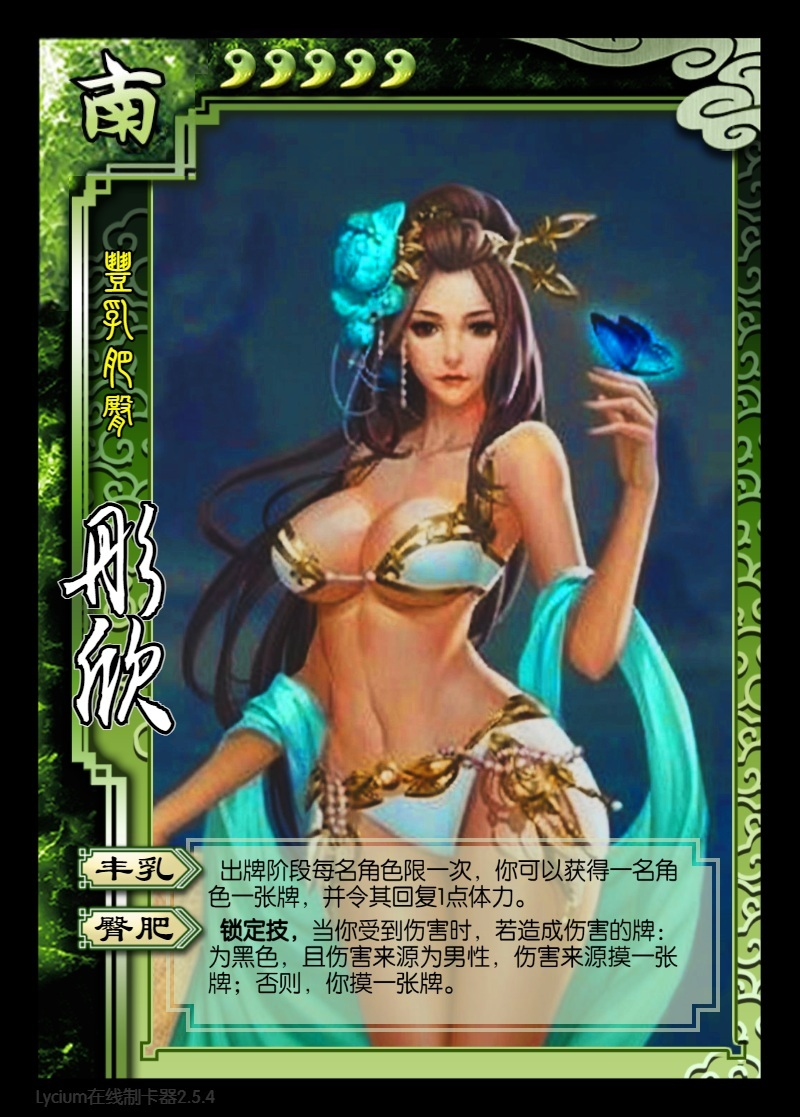
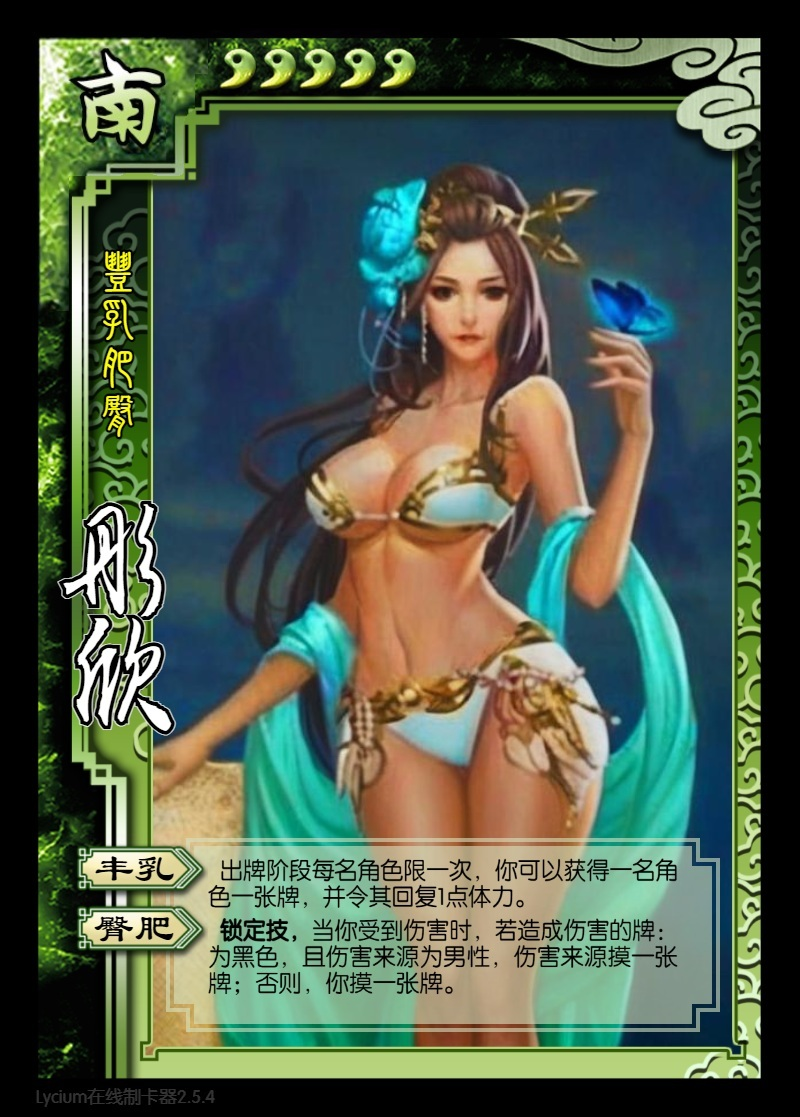
update tongxin beautiful image

diff --git a/character/jiuzisha.js b/character/jiuzisha.js
@@ -44,20 +44,20 @@ game.import('character',function(lib,game,ui,get,ai,_status){
             guidouzi_z:["male","wei",4,['zhenjiu_gui','qixing_gui','yunv_gui'],[]],
             moke:["male","wu",3,['yanyin_moke','ningwu_moke','xinghuo_moke','huozhong_moke'],[]],
             moke2:["male","wu",3,['yanyin_moke','ningwu_moke','xinghuo_moke','huozhong_moke'],['unseen']],
-            // tongxin:["female","shu",5,["fengru_tong","tunfei_tong"],[]],
+            tongxin:["female","shu",5,["fengru_tong","tunfei_tong"],[]],
             monian:["male","qun",4,["lanyong_mo","sanman_mo","shuaixing_mo"],[]],
             // yuner:["female","qun",50,['yuner_shiyan','yuner_selfDamage','yuner_qiangpai','yuner_die'],[]],
 		},
 		characterIntro:{
 			ouruoling:"欧若灵，西域第一美人儿，善于飞行，相貌极其精致，如凌波仙子般水灵秀气，丰姿冶丽，仿佛上天有意细细雕琢出来一般；她秀雅绝俗，自有一股轻灵之气，肌肤娇嫩、神态悠闲、美目流盼、含辞未吐、气若幽兰，说不尽的温柔可人；身材无限接近九昕儿一般的完美，娇躯时常散发着茉莉的清香，除了九昕儿以外无人的颜值能在她之上；她是九幽精灵鸟仅存的后裔；全金发的手下，韩鑫的好友；原西域千门赌场掌管财务的户部尚书，后兼任韩鑫的治粟总长，总管账目和运送粮草，是全金发的得力助手。早年为一绿翅小鸟，被全金发所救，并为他的无私和爱所感动，爱上了全金发；为了全金发加入了千门，由于长得实在太美了，成为无数男人心中的女神，升官极其顺利，很快就成了全金发的副手，单相思着全金发，可是由于害羞和含蓄不敢表露自己的情愫。性格单纯，聪颖，贤惠，含蓄又专情；数学非常好，算账从来没有出过错；大叔控，有时会自作多情，沉浸在自己与全金发的美好幻想之中无法自拔。对爱人非常周到和体贴，也非常容易满足，全金发一个微笑和一句夸赞就能让她开心好几天。",
             hanxin:"韩鑫，九子魂中的螭吻之魂，师从玫贤学习控天之道，在玫贤死后继位西域之主和千门门主，相貌英俊，脾气暴躁但智商特别高。封神图和新月羽毛扇的持有者。荒野神庙之主老方丈的养子，实则是冥王哈迪斯贴身仆人和保镖：帕格尼，的私生子，拥有看透一个人昨日和明日内命运的能力但这种能力会耗费他极大的精力且对神的继承者无用。早年通过算命维持生计。但由于一伙强盗的入侵（实则是雅典娜的阴谋中的一环），将其父亲杀害，使他开始发奋用功。时而会特别暴躁，时而又保持理智，可以玩弄敌人于股掌之间。从小在荒漠中练就了一身强悍的身体和灵巧的身手，并当过一段时间的“怪盗绅士”。跟随法贤先生学习“控欲”，“控念”与“控天”之术，成了一个运筹帷幄的人，极善揣测人心和设计精妙复杂的计划和策略，在与雅典娜大战中取得最后的无尚光明之剑——阿波罗之剑并斩杀雅典娜的心魔，使世界恢复和平，不甘心做哈迪斯的棋子，他闯冥界，得到了哈迪斯的符印，成了新一任的冥神，并完成了十二主神的重新封神的任务。",
-            jiuxiner:"九昕儿，九子魂中的椒图之魂，南域之主，江湖四圣之一，“东烟，西赌，南饮，北食”中的“南饮”，七大罪中的色欲之罪，酒神之女，酒神狄俄尼索斯的继承者，历史上以其独创的“酒之领域”而闻名。她的身材天生就是完美的胴体，容颜被韩鑫形容为“拥有不食人间烟火的仙子气质”，且天生就刀枪不入，肚量大的惊人，性格在清醒时很贤淑，善解人意，非常关心韩鑫。好喝酒，无酒不欢，酒后会变成一个好战豪放的人，经常误事所幸有韩鑫帮她收烂摊子。最反感的事就是别人质疑她的酒量，与人拼起酒来命都不要。有一群好酒的女酒友，个个酒量惊人但也只能拜服在她的内裙下。她跟着父亲酒神狄俄尼索斯学习控酒之术，能改变整个战场的法则，将原本刀枪剑戟的对决转变为拼酒量的对决，史称“酒之领域”。是韩鑫最亲近和信赖的人。她也很爱韩鑫，通过自己的声誉招揽了众多女子军和酒友的帮助。",
+            jiuxiner:"九昕儿，九子魂中的椒图之魂，南域之主，江湖四圣之一，“东烟，西赌，南饮，北食”中的“南饮”，七大罪中的色欲之罪，地狱灵魂体为一头梅花鹿，酒神之女，酒神狄俄尼索斯的继承者，历史上以其独创的“酒之领域”而闻名。她的身材天生就是完美的胴体，容颜被韩鑫形容为“拥有不食人间烟火的仙子气质”，且天生就刀枪不入，肚量大的惊人，性格在清醒时很贤淑，善解人意，非常关心韩鑫。好喝酒，无酒不欢，酒后会变成一个好战豪放的人，经常误事所幸有韩鑫帮她收烂摊子。最反感的事就是别人质疑她的酒量，与人拼起酒来命都不要。有一群好酒的女酒友，个个酒量惊人但也只能拜服在她的内裙下。她跟着父亲酒神狄俄尼索斯学习控酒之术，能改变整个战场的法则，将原本刀枪剑戟的对决转变为拼酒量的对决，史称“酒之领域”。是韩鑫最亲近和信赖的人。她也很爱韩鑫，通过自己的声誉招揽了众多女子军和酒友的帮助。",
             chenyingchao:"陈英超，南域五大将之首，后荣升南域第四位女王，巾帼女王，领地为南域西北的荒芜之地。历史上以在西北荒芜之地的“倒喝垂杨柳”，在红缨桥赤水滩的“三雄战英超”而闻名天下。九昕儿于鬼斗子家中收服的名将，“黑煞”，与丁亚并称为“黑白双煞”，开头酒量一般，但性格极度豪爽，酒品与九昕儿不相上下，被九昕儿视为知己，训练她酒量，之后酒量突飞猛进，很快成为酒量仅次于三女王的存在。长相身材英姿飒爽，秀气豪放，颜值仅次于九昕儿，被冠以“巾帼女王”“女中飒爽豪杰”“酒族第一猛将”等称号。被九昕儿赐予两把开瓶匕首，甚是帅气。曾经为救卡尔的对象，只身一人独闯黑虎域，与黑虎王喝了三天三夜的酒，又与雅典娜三千军团对饮，硬是喝出一条酒路，并在喝了那么多之后，又对战雅典娜的三个部下，子龙，冰河，舜，并险胜，几乎是平手，陈英超撑醉的几乎要醉死过去，救出了卡尔的对象卡拉拉，后人为了纪念这场战役，称其为“三雄战英超”！",
             wusheng_wusheng:"无声，东域长老之首，啸月天狼的后裔，喜欢用面纱遮住面容，相貌棱角分明银色的头发配上黝黑的肌肤，非常帅气。先祖为冷月祖父的坐骑双头啸月狼凯奥特。初时为一头雪狼，为冷月所救，就此爱上冷月，在众人都反对的情况下，力排众议帮助冷月稳固了在东域的地位。对冷月无比忠诚，无论什么要求都会尽力帮忙。为了帮助冷月，无声进化为狼人形态。无声的狼人化有四重：第一重为蓝幽狼（坐骑形态）；第二重为兽人蓝月狼（直立形态）；第三重为啸月天狼（成熟形态）；第四重为利爪啸月天狼（完全体形态）；攻击力和速度都阶梯式提升，这种能力很难开发，只有冷月遇到危险时无声才能进化。",
             wangyuling:"王煜灵，南域三女王之一，腰刀女王，领地为南域东北的内陆地区。肚量大得吓人，与九昕儿几乎平分秋色，酒量也很好，但在三女王中酒量算最差的。有个癖好，所有碰到她腰刀的东西都要进她的肚子。有一次她的腰刀碰到了一条大河的水，把整个河都被喝干了，河水，包括所有鱼虾，全部喝进了她的肚子。有一次，她的腰刀掉进了海里，整个海平面都下降了许多，要不是她的肚子已经被撑得再咽下一口水就会撑爆的地步，可能整片海洋都不存在了。开始不服九昕儿，后来被九昕儿的酒品折服，彻底臣服。",
             liyun: "璃韵，美女艺术家，带劲的玫瑰，“东烟”冷恩达麾下杀手军团的一员，身法和速度极快，擅长刺杀，韩鑫为了搞清楚玫贤死亡的真相，叫上曹炎，终于逮到了璃韵，逼问之下问出“暗谋”二字，她便一瞬间毙命。",
             zhurongnv: "祝融女，火神族公主，火神族族长祝融重明的独生女。火神族沿袭开山人祝融族长的传统，生出的女儿只有姓，单名一个“女”字。她有着傲人汹涌的臀部和胸部，头发为火焰，天生对高温免疫；她也是族内唯一拥有练就凤凰涅槃绝技的人，报以厚望。可是此技必须男女双修，可另一个有此天赋的男人上哪里去找？",
-            lanmengqi: "潘多拉·蓝梦琦，七大罪中的贪婪之罪，潘多拉魔盒之主，提线木偶：潘多拉·蓝梦琪（篡夺冥王宝座，成为冥界皇妃）。兔，鱼，狮，熊，猫，蛇，鹿，七个玩偶，只要戳一下，本尊会痛，肢体会不受控制，任人摆布，潘多拉做的，为了追求完美（完美主义），连自己的玩偶也做了，结果被韩鑫利用了，最终不得不放弃玩偶的操纵权。",
+            lanmengqi: "潘多拉·蓝梦琦，七大罪中的贪婪之罪，地狱灵魂体为一只黑猫。潘多拉魔盒之主，提线木偶：潘多拉·蓝梦琪（篡夺冥王宝座，成为冥界皇妃）。兔，鱼，狮，熊，猫，蛇，鹿，七个玩偶，只要戳一下，本尊会痛，肢体会不受控制，任人摆布，潘多拉做的，为了追求完美（完美主义），连自己的玩偶也做了，结果被韩鑫利用了，最终不得不放弃玩偶的操纵权。",
             duomingdong: "多名洞，九子魂中的蒲牢之魂，桃花岛岛主，爱情与美丽之神的继承者，精通音律，自称“美男子”好色但有正义感，桃花岛岛主，有着女人般的身材和体香，对韩鑫有着特殊的情愫。他的美貌是北域“蓝川之战”的起因。",
             tushanzuiyue: "涂山醉月，涂山之主，拥有无尽酒壶能够不断续酒，喝酒后会妖力大涨，喝得酩酊大醉时能觉醒最强奥义：九尾！蓝川之战中，以一句“涂山，我罩了！”名留青史，但这美人儿喝得太多了也会神志不清，敌我不分。曾与饕餮夫人交好，一次，涂山醉月过蓝河到饕餮族（饕餮峻）做客，似是要与饕餮一族交好，适逢饕餮夫人金守珍外出奔丧。多名洞接待了她，多名洞这美男子，美艳动人，深深吸引了涂山醉月，涂山族有爱与美丽之神——维纳斯，所遗留的爱情迷迭香，涂山醉月在蓝河豪华游轮船上，和多名洞喝酒（浪漫晚风，多情波浪，夕阳微微染红朦胧的天空，岸边景色宜人，让人神清气爽，心潮澎湃，空气中弥漫着桂花香以及荷尔蒙的味道，将迷迭香用在了多名洞身上，将他强行掰直，爱上自己，然后将他带走。金守珍闻讯赶回，一听此事极度愤怒，但已追赶不上。她向猫族女王单文倩，蜘蛛族女王郭依宁，以及蜂女蒯嘉慧求援，同时号令北域盟友，组成一支拥有1186只战舰和10万大军的号称“珍倩宁”的三族联军，沿着蓝河逆流而上向北直逼涂山城下。蓝河在北域支流形成的爱琴海。饕餮统治的区域与涂山正好隔着爱琴海。涂山依靠蓝河在北域支流形成的爱琴海沿岸地势形成的蓝川天险，稳若泰山，固若金汤，易守难攻。由此，著名的“蓝川之战”因一个美貌的男子拉开了序幕。",
             zhangning_jiuzi: "张宁，原名涂山宁，涂山狐族人，只是她贪图一时之欢，被驱逐出境，才逃到了西域，后被张貂蝉所纳为妾后才改名叫张宁。韩鑫的初恋。在狼女雅雯的战役中与韩鑫摩擦出火花，但后来驱利附势勾搭上了有钱的公子哥韩寿，隧抛弃了韩鑫，但内心深处，她还是过意不去，为了让自己良心安定，她当着韩鑫的面惩罚自己，来表明恩断义绝。",
@@ -68,8 +68,8 @@ game.import('character',function(lib,game,ui,get,ai,_status){
             meixian:"玫贤，原西域之主，千门原门主，江湖四圣之一，“东烟，西赌，南饮，北食”中的“西赌”，曾化名法贤先生，被人称为神算子，赌神，赌博计算之术无人能及，也是“撒旦之劫”的策划者，曾经拥有自己的势力造孽套多，被人追杀，看到这一切的罪过，她后悔了，在被人追杀的途中，算出自己命不久矣，在荒野之庙的浩劫中救下韩鑫，将自己今生所学托付给他，最后后含笑而终。",
             lenyue:"冷月（韩月），九子魂中的狴犴之魂，东域冷氏皇朝的公主，早年隐姓埋名寄养在韩门，狩猎之神阿尔忒弥斯的继承者，早年性格跋扈，韩门遭灭族后流亡他乡，后结识韩鑫，然后追爱不得后返回东域。“东烟”冷恩达的关门弟子，也是唯一继承人，后为“月夜女王”，主宠是暗蚊和玫瑰花瓣，能够在暗黑空间中自由穿梭，前不见蚊，后不见影，是继恩达之后暗谋军团的总指挥，擅长刺杀之术，“以烟为引杀人于呼吸之间”。对韩鑫有特殊的情愫，为了韩鑫找九昕儿单挑。自己的老师被韩鑫设计所害也没有杀韩鑫而是放走了他，独自饮下苦难的鸩酒。",
             lenenda:"冷恩达，东域之主，“江湖四圣”之一，“东烟，西赌，南饮，北食”中的“东烟”，拥有烟一般虚无缥缈的完美刺杀之术，拥有自己的杀手军团“暗烟”，只接受神的委托，心脏长在左肩上（由一颗碧绿坚硬的钻石保护在其上）,所以被人刺杀从未死去。“撒旦之劫”的参与者之一，后死于镜中自己的刺杀。喜欢带一张面无表情的冷脸面具，一般人看不到他的长相。宠物为独眼（红色）响尾蛇，长得其貌不扬，像一根皮带，善于悄无声息地接近目标，然后一击致命。在东域拥有最恐怖的杀手军团，几乎全是女性，而这些女人都是带刺的玫瑰，只要冷恩达一声令下，就会不顾一切地为冷恩达铲除异己。",
-            jinshouzhen:"金守珍，九子魂中的饕餮之魂，史称“饕餮夫人”，北域之主，“江湖四圣”之一的“北食”，七大罪中的暴食之罪，赫拉（婚姻和生育之神）的继承者，身姿丰腴性感，拥有300个老公，生了2000个子孙，拥有世人所无法想象的吞噬之术，与九昕儿直接用强悍的肉身将酒喝进腹中不同，饕餮夫人在腹中形成了一个异次元空间的入口，所以虽然她的食量惊人，但并没有进入自己的肚子。用此法，她可以吞下一整个世界，只要是她嘴巴能装下的东西就能从世界上消失，但缺点是不能长期使用吞噬之术，否则腹中一直空空如也会饥饿而亡。有自己的老公孩子食神军团，军团的人都是靠强悍肉身硬吃的。嫉妒九昕儿的容貌，经常找机会和九昕儿较量并设计要铲除她。有一次，被她逮到机会，喝得九昕儿差点撑不住，还好韩鑫在场看穿了饕餮夫人的弱点：由于大战时间太长，她自己一直不进食饿得撑不住只好认输。救了九昕儿。总喜欢做各种化学实验让自己变得更美。后来和多名洞在一起，被多名洞虐腹感到快感。",
-            shuimiaoer:"水淼儿，九子魂中的蚣蝮之魂，碧海公主，七大罪中的嫉妒之罪，百合美人儿，深爱着九昕儿，奈何九昕儿爱的是韩鑫，曾经为了得到九昕儿与九昕儿拼酒，用她的原话说：“那本小姐今天就把你灌醉，然后开房把你办了，看你以后从不从我！”结果逞能喝了7大瓶儿威士忌，喝得醉醺醺的，却还是没能将九昕儿灌醉……",
+            jinshouzhen:"金守珍，九子魂中的饕餮之魂，史称“饕餮夫人”，北域之主，“江湖四圣”之一的“北食”，七大罪中的暴食之罪，地狱灵魂体为一条巨蟒，赫拉（婚姻和生育之神）的继承者，身姿丰腴性感，拥有300个老公，生了2000个子孙，拥有世人所无法想象的吞噬之术，与九昕儿直接用强悍的肉身将酒喝进腹中不同，饕餮夫人在腹中形成了一个异次元空间的入口，所以虽然她的食量惊人，但并没有进入自己的肚子。用此法，她可以吞下一整个世界，只要是她嘴巴能装下的东西就能从世界上消失，但缺点是不能长期使用吞噬之术，否则腹中一直空空如也会饥饿而亡。有自己的老公孩子食神军团，军团的人都是靠强悍肉身硬吃的。嫉妒九昕儿的容貌，经常找机会和九昕儿较量并设计要铲除她。有一次，被她逮到机会，喝得九昕儿差点撑不住，还好韩鑫在场看穿了饕餮夫人的弱点：由于大战时间太长，她自己一直不进食饿得撑不住只好认输。救了九昕儿。总喜欢做各种化学实验让自己变得更美。后来和多名洞在一起，被多名洞虐腹感到快感。",
+            shuimiaoer:"水淼儿，九子魂中的蚣蝮之魂，碧海公主，七大罪中的嫉妒之罪，地狱灵魂体为一条鲨鱼，百合美人儿，深爱着九昕儿，奈何九昕儿爱的是韩鑫，曾经为了得到九昕儿与九昕儿拼酒，用她的原话说：“那本小姐今天就把你灌醉，然后开房把你办了，看你以后从不从我！”结果逞能喝了7大瓶儿威士忌，喝得醉醺醺的，却还是没能将九昕儿灌醉……",
             wangyueheng:"王月蘅，南域三女王之一，沼泽女王，领地为南域西南的沼泽地带。肚量酒量都一级棒，虽然肚量不如腰刀女王，但酒量是绝对没话说，喜欢在酒精沼泽中泡澡，除了酒，什么也不喝，声称酒是她的命。距离她方圆10米内就能闻到浓郁的酒精味。有一次要发大水，她怕酒精沼泽里的酒精被稀释，直接将六个沼泽地的酒精全部喝进腹中，撑得医生都没办法，但说什么也不上厕所，直到大水退了，才又将酒精全部吐回酒精沼泽中，此举令她名扬天下。能在任何地方脱下衣服洗澡，甚至在油锅里也能洗澡。因为她身上纹了一条龙，可以调节温度和湿度，所以沼泽女王的洗澡功力很强。陈英超刚进入南域时不服沼泽女王，与她拼酒。两人超负荷喝下了无数烈酒，陈英超撑得两眼发直，直俞呕吐，突然失去了战意，这股强烈的吐意挡都挡不住。但是在酒族，呕吐是一件很羞耻的事情，有呕吐物在地上的女人一辈子都会有心理阴影甚至种下心魔导致之后的喝酒之路无法再有长进。王月蘅见状，突然温柔地揽过陈英超的纤腰，嘴唇轻轻含住陈英超的嘴“想吐就吐出来吧~”，陈英超：“沼泽女王……”陈英超感受着这股温柔的力量再也把持不住，大口吐起来，只是并没有到地上，而是进了王月蘅本就撑得发硬的肚腹之中。王月蘅娇喉一滚一滚，强忍着腹内剧烈的饱胀之感喝下陈英超的呕吐之物。陈英超喝得虽然已经迷糊了，但依旧能感受到王月蘅那温柔旖旎的力量，心中感动，这是多伟大的姐妹之情！史称：一吻噬恩仇！友情提示：沐浴沼泽女王王月蘅沼泽的酒，然后再被她喝下去，就能加快肌肤生长，促进伤口复原，但过于微小的伤口可能起到反作用。",
             dongxiaorong:"董笑蓉，南域三女王之一，百兽女王，领地为南域东南的丛林地带。酒量肚量一级棒，喜欢在丛林中用狗寻找猎物，一旦发现大型猛兽，就将其抓住，与其拼酒，且拼酒从来都是动物喝一杯，她喝一缸，而且必须喝倒才算完，否则她就会继续喝下去。喝酒喜欢并着双腿，没有并着腿喝下去的酒不算数，不仅如此还要罚喝十缸以赎自己没有并腿的罪，所以被另外两位女王戏称为“并腿女王”。有一次连续抓住了一大群，接近两千多头猛兽，包括巨型猛犸，梁龙兽，宰相兽（拥有海量的巨大肚量），巨腹河马兽等等，她一口气通通都喝倒，竟然还能接着回去在九昕儿的生日派对上豪饮，来者不拒。九昕儿生日时，蛋糕制作在她两条大腿之间的阴唇上，画着奶油甜蜜蜜，大家你一舌头，我一舌头，一起舔！好酒！好蛋糕！",
             kaer:"卡尔，九子魂中的狻猊之魂，一个天真无邪的北域矮人国小牧童，拥有童真之力，无人可伤他，农业与丰收之神德墨忒尔的继承者,喜欢玩烟花爆竹。",
@@ -18076,7 +18076,7 @@ game.import('character',function(lib,game,ui,get,ai,_status){
                         game.delay(2);
                     }
                     else{
-                        game.delay(1);
+                        game.delay(2);
                     }
                 },
 
